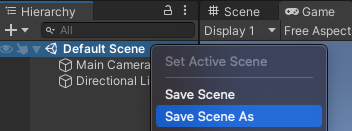
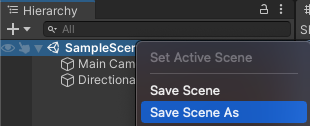
Co-authored-by: Dr Tracy Gardner <tracygardner@users.noreply.github.com>

diff --git a/en/step_4.md b/en/step_4.md
@@ -81,45 +81,71 @@ public class PlayerController : MonoBehaviour
 
 --- /task ---
 
-The `Start` method is called once when you play your scene. 
+The 'Start' method is called once when you play your scene. Add code to print the message `Player started` when your project starts running.
 
 --- task ---
-Use the `Debug.Log()` method
 
+Use the `Debug.Log()` method to print a message when the Player GameObject's `Start` method is called. The message will appear in the bar at the bottom of the Unity editor and in the Console window:
 
 ```
+    // Start is called before the first frame update
     void Start()
     {
         Debug.Log("Player started");
     }
 ```
 
+**Tip:** The lines starting with // are comments that explain the code. You don’t need to type them.
+
+**Save** your 'PlayerController' script in your code editor, using 'Ctrl-S' (or 'Cmd-S'), then return to the Unity Editor.
+
 --- /task ---
 
 --- task ---
 
+Click on the Console window tab to bring it to the front:
+
+![The tab for the Console window highlighted in the bottom left section of the Unity editor.](images/console-window.png){:width="400px"}
+
 --- /task ---
 
+--- task ---
+
+**Test:**  Play your project and check the Console window to make sure you see the `Debug.Log()` 'Player started' message:
+
+![The console window with the time stamped 'Player started' message as a comment.](images/player-started.png)
+
+**Debug:** Your scene won't play if there are errors in your code. Check the Console window for information. You may see:
++ '; expected' - check for a semicolon `;` at the end of each line of code. 
++ 'Newline in constant' - you missed a quote `"` from the end of a text string.
++ '} expected' - you should have a pair of open and close curly brackets `{}` around each method and around the class. Check that your curly brackets match.
++ ') expected' - make sure there's a closing `)` at the end of each Method call, before the semicolon.
++ 'Debug' does not contain a definition for 'log'' - C# is case sensitive, it needs to be `Log` with a capital `L`.
+
+Compare your code with the example code and make sure everything is exactly the same.
+
+--- /task ---
 
 Unity creates the effect of movement by quickly drawing images to the screen. Each image is a **frame**. The `Update` method is called once every frame.
 
 --- task ---
 
-You will be able to use WASD or arrow keys (players on mobile or console can use different inputs without you changing your code.)   
+You will be able to use WASD or arrow keys (players on mobile or console can use different inputs without you changing your code.)
 
-**Tip:** The lines starting with `//` are comments that explain the code. You don't need to type them.
-
+`Input.GetAxis("Vertical")` takes input from 'W'/'S' or up/down arrow keys and returns a number between '1' and '-1' which we will use for forwards/backwards movement. 
 
 <mark>Add line numbers, filenames and highlights to code markdown.</mark>
 
 ```
-   // Update is called once per frame
-    void Update()
-    {
+void Update()
+{
         float speed = Input.GetAxis("Vertical");
-        Debug.Log(speed);
-    }
 
+        if (speed != 0) // Player moving
+        {
+            Debug.Log(speed);
+        }
+}
 ```
 
 A `float` is a decimal number.
@@ -130,29 +156,9 @@ A `float` is a decimal number.
 
 **Tip:** You might finding it quicker to use 'Alt-Tab' (or 'Cmd-Tab') to switch between your Web browser with the project instructions, the Unity editor and your code editor.
 
-**Debug:** Your scene won't play if there are errors in your code. Check the Console window for information. You may see:
-+ '; expected' - check for a semicolon `;` at the end of each line of code. 
-+ 'Newline in constant' - you missed a quote `"` from the end of a text string.
-+ '} expected' - you should have a pair of open and close curly brackets `{}` around each method and around the class. Check that your curly brackets match.
-+ ') expected' - make sure there's a closing `)` at the end of each Method call, before the semicolon.
-+ ''Input' does not contain a definition for 'getAxis'' - C# is case sensitive, it needs to be `GetAxis` with a capital `G`.
-
-Compare your code with the example code and make sure everything is exactly the same.
 --- /task ---
 
---- task ---
-
-Click on your character in the Hierarchy window. Go to the Project window and drag the 'PlayerController' script across to the Inspector window:
-
-![An animated gif showing the dragging of the PlayerController script from the Project window to the Inspector window](images/drag-script.gif)
-
---- /task ---
-
---- task ---
-
-Click on the Console window tab to bring it to the front:
-
-![The tab for the Console window highlighted in the bottom left section of the Unity editor.](images/console-window.png){:width="400px"}
+--- task --
 
 **Test:** Go to the Toolbar and click on the **Play** button to put your scene into Playmode. This will simulate your scene as it would be viewed and interacted with by a user:  
 

diff --git a/en/step_2.md b/en/step_2.md
@@ -86,7 +86,7 @@ In Unity, a **Scene** contains GameObjects. A Unity project with multiple game l
 
 --- task ---
 
-Right-click on 'Default Scene' in the Hierarchy and choose 'Save Scene As'. 
+Right-click on 'SampleScene' in the Hierarchy and choose 'Save Scene As'. 
 
 ![The scene icon in the Hierarchy window with the right-click menu expanded.](images/right-click-scene.png)
 
